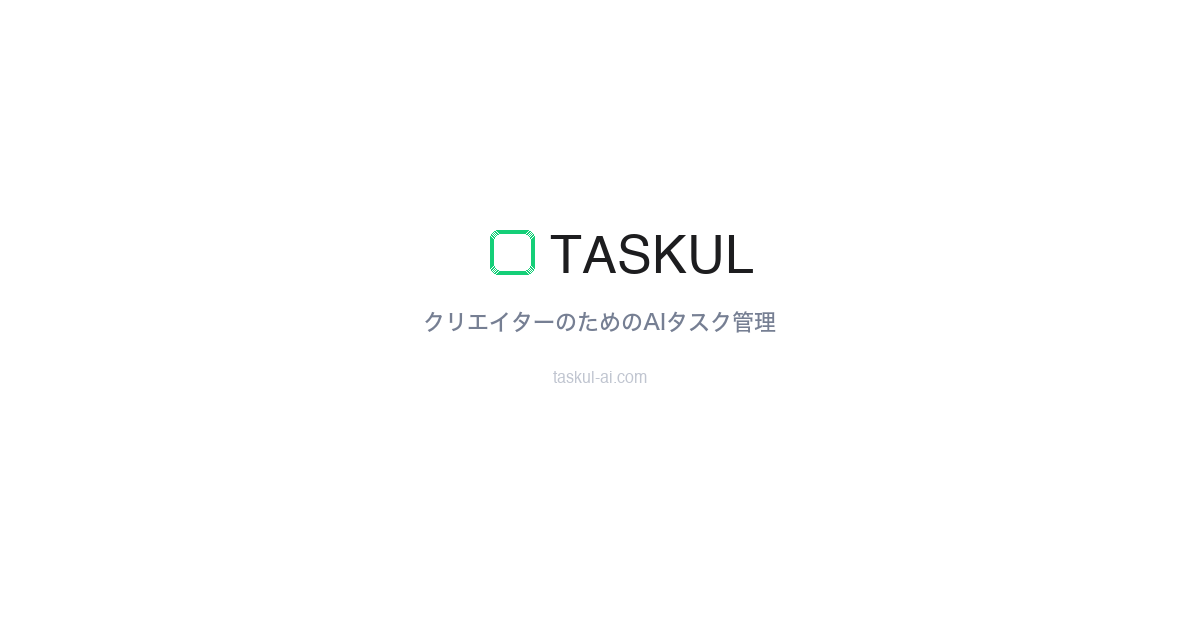
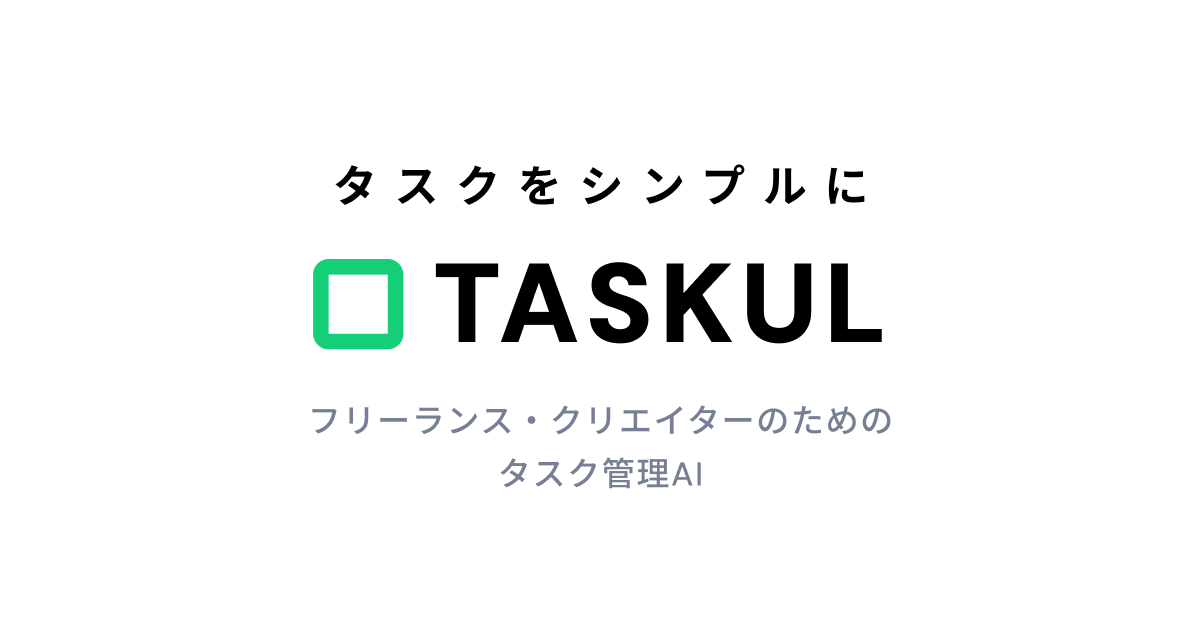
fix: OGPタイトル・画像を正規ロゴ版に修正

diff --git a/index.html b/index.html
@@ -3,7 +3,7 @@
 <head>
 <meta charset="UTF-8">
 <meta name="viewport" content="width=device-width, initial-scale=1.0">
-<title>TASKUL AI - クリエイターのためのAIタスク管理</title>
+<title>TASKUL｜フリーランス専用タスク管理AI</title>
 <meta name="description" content="依頼文を貼るだけ。AIがプロジェクト・タスク・見積書を自動構造化。フリーランス・クリエイター専用のタスク管理ツール。">
 <meta name="keywords" content="タスク管理,プロジェクト管理,フリーランス,クリエイター,AI,見積書,請求書,TASKUL">
 <meta name="author" content="株式会社フリーカンパニー">
@@ -16,15 +16,15 @@
 <!-- OGP -->
 <meta property="og:type" content="website">
 <meta property="og:url" content="https://taskul-ai.com/">
-<meta property="og:title" content="TASKUL AI - クリエイターのためのAIタスク管理">
+<meta property="og:title" content="TASKUL｜フリーランス専用タスク管理AI">
 <meta property="og:description" content="依頼文を貼るだけ。AIがプロジェクト・タスク・見積書を自動構造化。フリーランス・クリエイター専用のタスク管理ツール。">
 <meta property="og:image" content="https://taskul-ai.com/images/og-image.png">
-<meta property="og:site_name" content="TASKUL AI">
+<meta property="og:site_name" content="TASKUL">
 <meta property="og:locale" content="ja_JP">
 
 <!-- Twitter Card -->
 <meta name="twitter:card" content="summary_large_image">
-<meta name="twitter:title" content="TASKUL AI - クリエイターのためのAIタスク管理">
+<meta name="twitter:title" content="TASKUL｜フリーランス専用タスク管理AI">
 <meta name="twitter:description" content="依頼文を貼るだけ。AIがプロジェクト・タスク・見積書を自動構造化。フリーランス・クリエイター専用のタスク管理ツール。">
 <meta name="twitter:image" content="https://taskul-ai.com/images/og-image.png">
 
